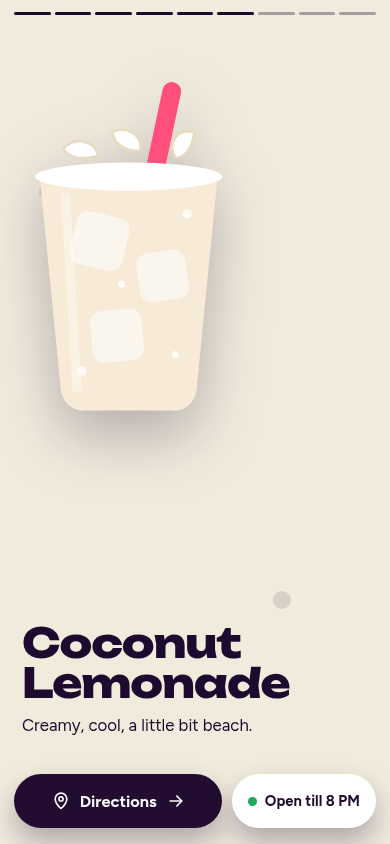
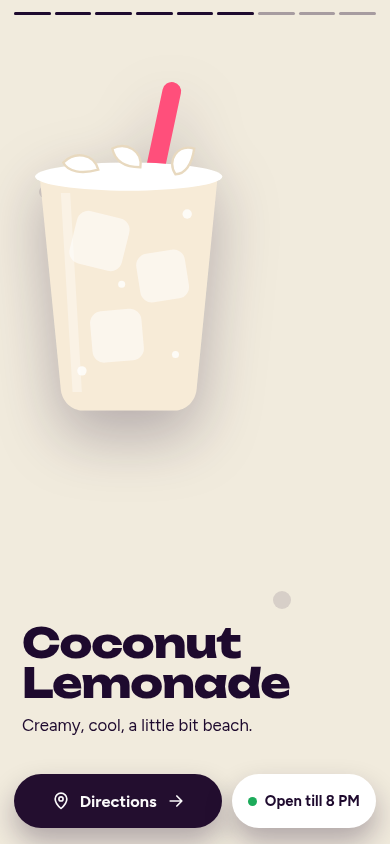
Snack & Sip: garnish craft tweaks, confirmed domain in PRODUCT.md, fresh captures
Claude-Session: https://claude.ai/code/session_01JNpXyxWLgQiAqL5S6WbgCE

Changed region(s): [[0.1538, 0.154, 0.2462, 0.2156], [0.2769, 0.154, 0.3692, 0.2156], [0.4308, 0.154, 0.4923, 0.2156]]

diff --git a/snackandsip/index.html b/snackandsip/index.html
@@ -210,7 +210,7 @@ html{scrollbar-color:rgba(255,255,255,.45) transparent;scrollbar-width:thin}
 
   <section class="slide sky" data-c="#4fc3ff">
     <div class="layer bubbles" data-depth="30"><i style="left:14%;top:10%;width:16px;height:16px"></i><i style="left:66%;top:72%;width:10px;height:10px"></i><i style="left:36%;top:46%;width:7px;height:7px"></i></div>
-    <svg class="layer cup" data-depth="70" viewBox="0 0 220 300" aria-hidden="true"><use href="#cup"/><g fill="#dff3ff"><circle cx="78" cy="56" r="22"/><circle cx="104" cy="40" r="26"/><circle cx="132" cy="54" r="20"/><circle cx="100" cy="70" r="24"/></g><g fill="#fff" opacity=".7"><circle cx="92" cy="44" r="8"/><circle cx="120" cy="60" r="6"/></g></svg>
+    <svg class="layer cup" data-depth="70" viewBox="0 0 220 300" aria-hidden="true"><use href="#cup"/><g fill="#dff3ff"><circle cx="54" cy="56" r="22"/><circle cx="80" cy="40" r="26"/><circle cx="108" cy="54" r="20"/><circle cx="76" cy="70" r="24"/></g><g fill="#fff" opacity=".7"><circle cx="68" cy="44" r="8"/><circle cx="96" cy="60" r="6"/></g></svg>
     <div class="copy" data-depth="-24">
       <h2>Blue Cotton Candy Lemonade</h2>
       <p>The one that turns heads across the food court.</p>
@@ -219,7 +219,7 @@ html{scrollbar-color:rgba(255,255,255,.45) transparent;scrollbar-width:thin}
 
   <section class="slide coco" data-c="#f1ebdd">
     <div class="layer bubbles" data-depth="30"><i style="left:10%;top:22%;width:12px;height:12px;background:var(--ink);opacity:.12"></i><i style="left:70%;top:70%;width:18px;height:18px;background:var(--ink);opacity:.12"></i></div>
-    <svg class="layer cup" data-depth="70" viewBox="0 0 220 300" aria-hidden="true"><use href="#cup"/><g fill="#fff" stroke="#e8d9bf" stroke-width="2"><path d="M54 62c10-10 26-8 30 6-14 4-26 2-30-6Z"/><path d="M150 70c-8-12 2-26 16-22-2 14-8 22-16 22Z"/><path d="M96 48c12-6 26 2 24 16-14 0-22-6-24-16Z"/></g></svg>
+    <svg class="layer cup" data-depth="70" viewBox="0 0 220 300" aria-hidden="true"><use href="#cup"/><g fill="#fff" stroke="#e8d9bf" stroke-width="2"><path d="M54 74c10-10 26-8 30 6-14 4-26 2-30-6Z"/><path d="M150 84c-8-12 2-26 16-22-2 14-8 22-16 22Z"/><path d="M96 62c12-6 26 2 24 16-14 0-22-6-24-16Z"/></g></svg>
     <div class="copy" data-depth="-24">
       <h2>Coconut Lemonade</h2>
       <p>Creamy, cool, a little bit beach.</p>

diff --git a/snackandsip/PRODUCT.md b/snackandsip/PRODUCT.md
@@ -7,7 +7,7 @@
 web
 
 ## Stack
-Static HTML/CSS/JS, no build step (existing page in `snackandsip/`). Hosting target undecided.
+Static HTML/CSS/JS, no build step (existing page in `snackandsip/`). Live site: https://snackandsip.netlify.app (confirmed by owner; how it is linked to a repo is still unknown).
 
 ## Users
 People at or near Pearland Town Center (TX) on their phones, deciding whether to walk over for a drink or snack; also people arriving from social media (Instagram/TikTok) who need to see the drinks and get excited fast. Confirmed by owner: walk-ins plus social discovery.
